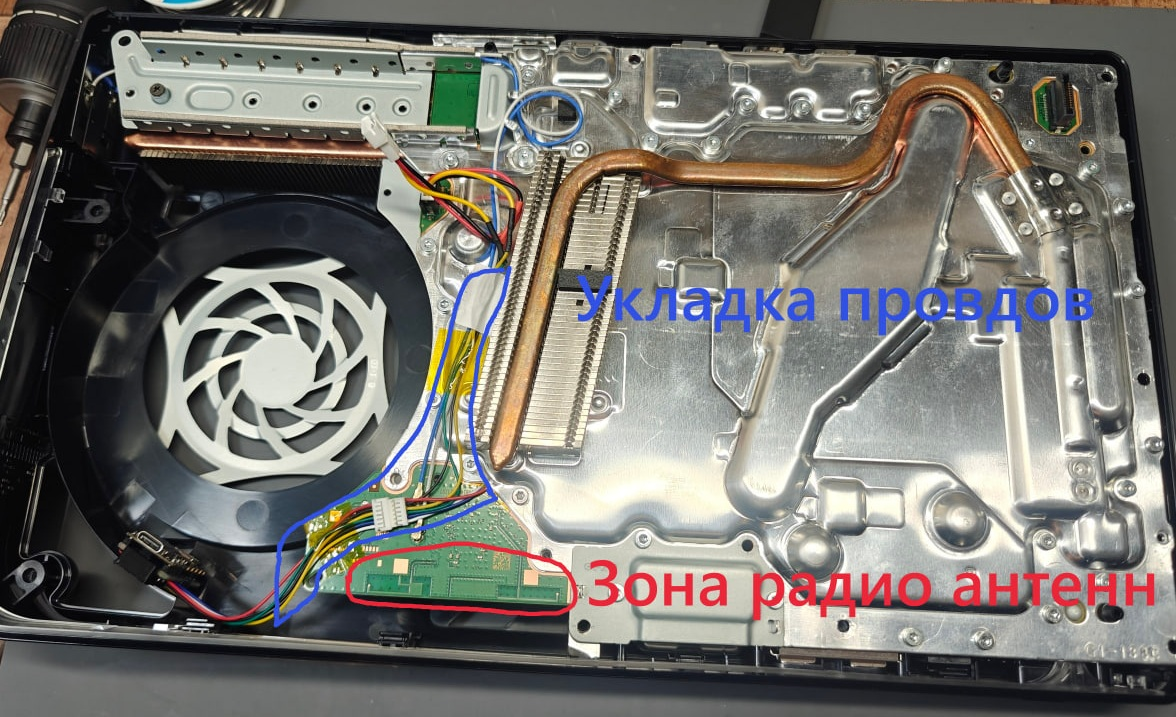
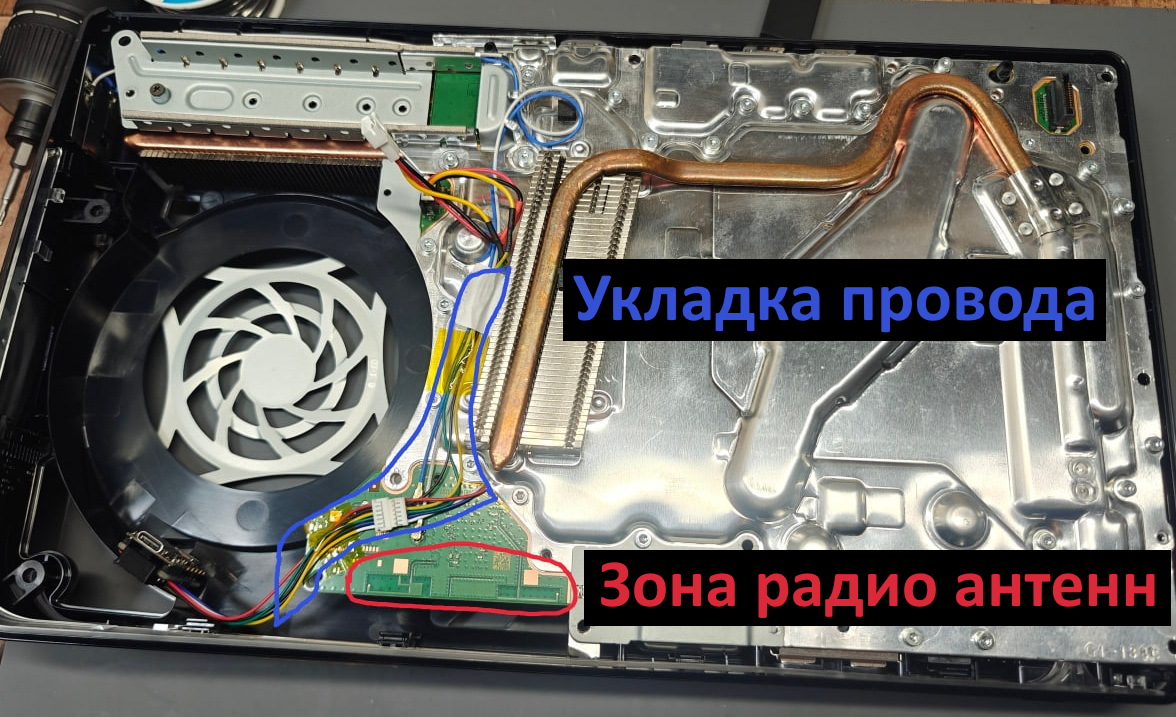
Add files via upload

Changed region(s): [[0.4592, 0.3375, 0.949, 0.4909], [0.4898, 0.7671, 1.0, 0.8898]]

diff --git a/scman/style.css b/scman/style.css
@@ -44,7 +44,7 @@
   --text-primary: #e0e0e0;
   --text-secondary: #aaaaaa;
   --accent: #0091ff;
-  --link: #4099ff;
+  --link: #5ea9ff;
   --border: #ffffff20;
   --code-bg: #000000;
   --code-color: #d4d4d4;
@@ -99,6 +99,12 @@ body {
   max-width: 800px;
   margin: 0 auto;
   transition: background 0.2s;
+}
+
+hr {
+  border: none;
+  border-top: 1px solid var(--border);
+  margin-top: calc(var(--sp-4) * 2);
 }
 
 /* ============================================
@@ -272,6 +278,39 @@ blockquote {
   padding: var(--sp-3);
   margin: var(--sp-2) 0;
   border-radius: calc(var(--radius) / 2);
+}
+
+/* Примечание — стандартный синий акцент */
+blockquote.callout-note {
+  background: #eef7ff;
+  border-left-color: var(--accent);
+}
+
+/* Важно — жёлтый акцент */
+blockquote.callout-important {
+  background: #fff8dc;
+  border-left-color: #e0a000;
+}
+
+/* Внимание — красный акцент */
+blockquote.callout-warning {
+  background: #fff0f0;
+  border-left-color: #d63c3c;
+}
+
+/* Цвета для тёмной темы */
+.dark blockquote.callout-note {
+  background: #172a3a;
+}
+
+.dark blockquote.callout-important {
+  background: #352d17;
+  border-left-color: #ffc107;
+}
+
+.dark blockquote.callout-warning {
+  background: #381d1d;
+  border-left-color: #ff5252;
 }
 
 blockquote > p {

diff --git a/scman/index.html b/scman/index.html
@@ -67,6 +67,23 @@ fetch('./README.md?t=' + Date.now())
   .then(md => {
     const container = document.getElementById('content');
     container.innerHTML = marked.parse(md);
+
+    // Определяем типы информационных блоков
+    container.querySelectorAll('blockquote').forEach(blockquote => {
+      const label = blockquote
+        .querySelector('p > strong:first-child')
+        ?.textContent
+        .trim()
+        .toLowerCase() || '';
+
+      if (label.startsWith('примечание')) {
+        blockquote.classList.add('callout-note');
+      } else if (label.startsWith('важно')) {
+        blockquote.classList.add('callout-important');
+      } else if (label.startsWith('внимание')) {
+        blockquote.classList.add('callout-warning');
+      }
+    });
     
     // --- Обработка изображений с подписями ---
     const imageParagraphs = container.querySelectorAll('p:has(img)');
